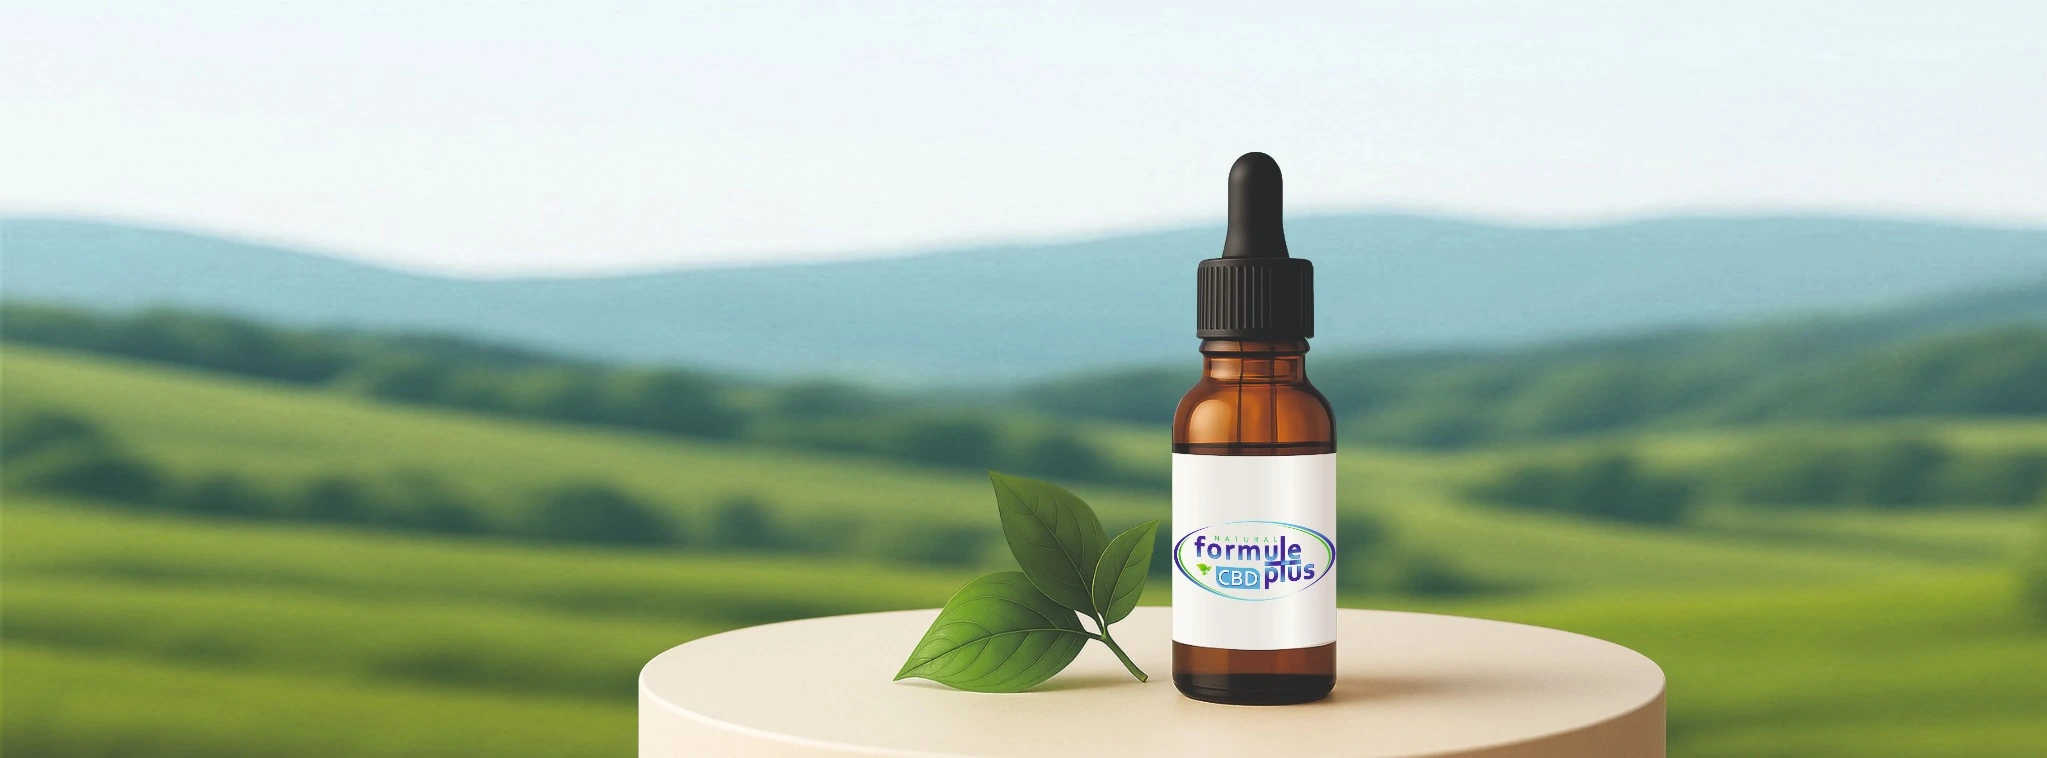
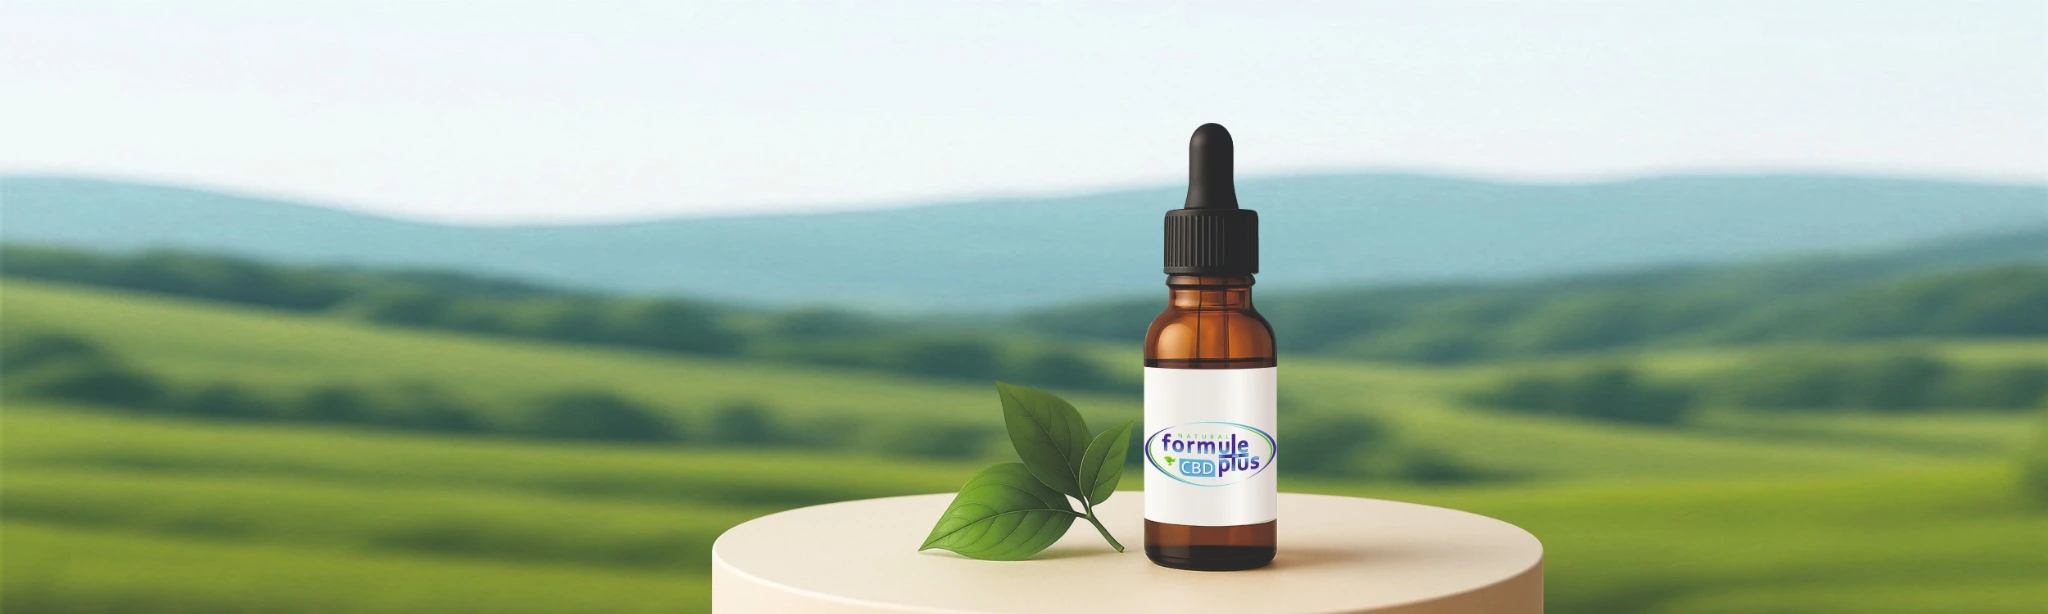
C

Changed region(s): [[0.3078, 0.1857, 0.831, 1.0]]

diff --git a/PATCH_NOTES.md b/PATCH_NOTES.md
@@ -1,7 +1,8 @@
 PATCH_NOTES.md
-Goal: Zet het meegeleverde beeld als hero (exact passend met de huidige 600px-hoogte instellingen).
+Goal: Gebruik het bredere beeld als hero.
 Files:
 - public/hero-formuleplus.png
 - public/hero-formuleplus.webp
+
 Gebruik:
-- Pak deze ZIP uit op de repo-root. Je CSS is al ingesteld om op 600px te renderen; dit beeld past dan precies.
+- Pak deze ZIP uit op de repo-root. Met je huidige CSS (height: 600px; background-size: auto 100%) past dit beeld netjes in de hero-hoogte.
